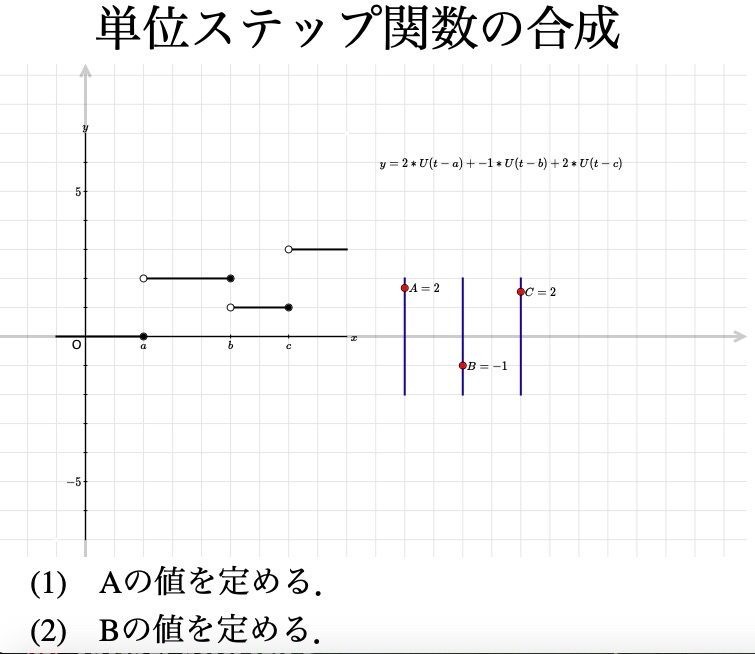
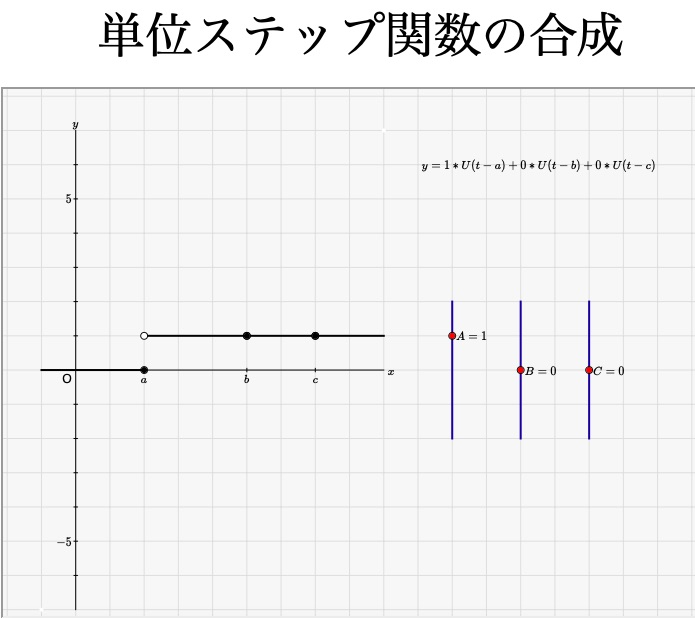
2020/05/06 1st revised

diff --git a/Cmath/Fourier/offL/unit-stepjsoffL.html b/Cmath/Fourier/offL/unit-stepjsoffL.html
@@ -226,6 +226,13 @@ Toupper(str):=(
   );
   out;
 );
+Ketcindyjsmain(prelist):=Ketcindyjsmain(prelist,[]);
+Ketcindyjsmain(prelist,postlist):=(
+  JSMAIN=[[],[]];
+  if(islist(prelist),JSMAIN_1=prelist,JSMAIN_1=[prelist]);
+  if(islist(postlist),JSMAIN_2=postlist,JSMAIN_2=[postlist]);
+  JSMAIN;
+);
 Addax(param):=(
   ADDAXES=text(param);
 );
@@ -1390,10 +1397,10 @@ Ketcindyjsscale=1;
 <script id="csdraw" type="text/x-cindyscript">
 Ketinit();
 Setketcindyjs(["Nol=all","Color=offwhite"]);
-Ketcindyjsbody(["<p,f10>_;_;単位ステップ関数の合成"],[
- "<p,f6>_;(1)_;Aの値を定める．",
- "<p,f6>_;(2)_;Bの値を定める．",
- "<p,f6>_;(3)_;Cの値を定める．"
+Ketcindyjsmain(["<pf10/fp>_;_;単位ステップ関数の合成"],[
+ "<pf5/fpbr>_;(1)_;$A$の値を定める．",
+ "<pf5/fpbr>_;(2)_;$B$の値を定める．",
+ "<pf5/fpbr>_;(3)_;$C$の値を定める．"
 ]);
 Addax(0);
 Drwxy();
@@ -1444,29 +1451,25 @@ var cdy = CindyJS({
   geometry: [
     {name: "SW", type: "Free", pos: [-0.5714285714285714, -4.0, 0.5714285714285714], color: [1.0,1.0,1.0], labeled: false, size: 2.0, border:false },
     {name: "NE", type: "Free", pos: [4.0, 3.111111111111111, 0.4444444444444444], color: [1.0,1.0,1.0], labeled: false, size: 2.0, border:false },
-    {name: "A", type: "Free", pos: [4.0, 0.6081490909090909, 0.36363636363636365], color: [1.0, 0.0, 0.0], labeled: false, size: 3.0, border: true },
+    {name: "A", type: "Free", pos: [4.0, 0.36363636363636365, 0.36363636363636365], color: [1.0, 0.0, 0.0], labeled: false, size: 3.0, border: true },
     {name: "B", type: "Free", pos: [4.0, -0.0, 0.3076923076923077], color: [1.0, 0.0, 0.0], labeled: false, size: 3.0, border: true },
-    {name: "C", type: "Free", pos: [4.0, 0.4110026666666667, 0.26666666666666666], color: [1.0, 0.0, 0.0], labeled: false, size: 3.0, border: true }
+    {name: "C", type: "Free", pos: [4.0, -0.0, 0.26666666666666666], color: [1.0, 0.0, 0.0], labeled: false, size: 3.0, border: true }
   ],
   ports: [{
     id: "CSCanvas",
-    width: 749,
-    height: 493,
-    transform: [{visibleRect: [-3.0149862141040757, 9.389528495352693, 22.793295778626813, -7.597765259542271]}],
-    axes: true,
+    width: 762,
+    height: 527,
+    transform: [{visibleRect: [-2.1241499641397956, 8.211016063688144, 20.137856678491357, -7.185411102541013]}],
     grid: 1.0,
     snap: true,
-    background: "rgb(___)"
+    background: "rgb(247,247,247)"
   }],
   csconsole: false,
+  use: ["katex"],
   cinderella: {build: 1942, version: [3, 0, 1942]}
 });
     </script>
 </head>
 <body>
-    <p><font size="10">&emsp;&emsp;単位ステップ関数の合成</font></p>
     <div id="CSCanvas"></div>
-    <p><font size="6">&emsp;(1)&emsp;Aの値を定める．</font></p>
-    <p><font size="6">&emsp;(2)&emsp;Bの値を定める．</font></p>
-    <p><font size="6">&emsp;(3)&emsp;Cの値を定める．</font></p>
 </html>

diff --git a/Cmath/Fourier/unit-step/unit-stepjson.html b/Cmath/Fourier/unit-step/unit-stepjson.html
@@ -226,6 +226,13 @@ Toupper(str):=(
   );
   out;
 );
+Ketcindyjsmain(prelist):=Ketcindyjsmain(prelist,[]);
+Ketcindyjsmain(prelist,postlist):=(
+  JSMAIN=[[],[]];
+  if(islist(prelist),JSMAIN_1=prelist,JSMAIN_1=[prelist]);
+  if(islist(postlist),JSMAIN_2=postlist,JSMAIN_2=[postlist]);
+  JSMAIN;
+);
 Addax(param):=(
   ADDAXES=text(param);
 );
@@ -1390,10 +1397,10 @@ Ketcindyjsscale=1;
 <script id="csdraw" type="text/x-cindyscript">
 Ketinit();
 Setketcindyjs(["Nol=all","Color=offwhite"]);
-Ketcindyjsbody(["<p,f10>_;_;単位ステップ関数の合成"],[
- "<p,f6>_;(1)_;Aの値を定める．",
- "<p,f6>_;(2)_;Bの値を定める．",
- "<p,f6>_;(3)_;Cの値を定める．"
+Ketcindyjsmain(["<pf10/fp>_;_;単位ステップ関数の合成"],[
+ "<pf5/fpbr>_;(1)_;$A$の値を定める．",
+ "<pf5/fpbr>_;(2)_;$B$の値を定める．",
+ "<pf5/fpbr>_;(3)_;$C$の値を定める．"
 ]);
 Addax(0);
 Drwxy();
@@ -1444,29 +1451,25 @@ var cdy = CindyJS({
   geometry: [
     {name: "SW", type: "Free", pos: [-0.5714285714285714, -4.0, 0.5714285714285714], color: [1.0,1.0,1.0], labeled: false, size: 2.0, border:false },
     {name: "NE", type: "Free", pos: [4.0, 3.111111111111111, 0.4444444444444444], color: [1.0,1.0,1.0], labeled: false, size: 2.0, border:false },
-    {name: "A", type: "Free", pos: [4.0, 0.6081490909090909, 0.36363636363636365], color: [1.0, 0.0, 0.0], labeled: false, size: 3.0, border: true },
+    {name: "A", type: "Free", pos: [4.0, 0.36363636363636365, 0.36363636363636365], color: [1.0, 0.0, 0.0], labeled: false, size: 3.0, border: true },
     {name: "B", type: "Free", pos: [4.0, -0.0, 0.3076923076923077], color: [1.0, 0.0, 0.0], labeled: false, size: 3.0, border: true },
-    {name: "C", type: "Free", pos: [4.0, 0.4110026666666667, 0.26666666666666666], color: [1.0, 0.0, 0.0], labeled: false, size: 3.0, border: true }
+    {name: "C", type: "Free", pos: [4.0, -0.0, 0.26666666666666666], color: [1.0, 0.0, 0.0], labeled: false, size: 3.0, border: true }
   ],
   ports: [{
     id: "CSCanvas",
-    width: 749,
-    height: 493,
-    transform: [{visibleRect: [-3.0149862141040757, 9.389528495352693, 22.793295778626813, -7.597765259542271]}],
-    axes: true,
+    width: 762,
+    height: 527,
+    transform: [{visibleRect: [-2.1241499641397956, 8.211016063688144, 20.137856678491357, -7.185411102541013]}],
     grid: 1.0,
     snap: true,
-    background: "rgb(___)"
+    background: "rgb(247,247,247)"
   }],
   csconsole: false,
+  use: ["katex"],
   cinderella: {build: 1942, version: [3, 0, 1942]}
 });
     </script>
 </head>
 <body>
-    <p><font size="10">&emsp;&emsp;単位ステップ関数の合成</font></p>
     <div id="CSCanvas"></div>
-    <p><font size="6">&emsp;(1)&emsp;Aの値を定める．</font></p>
-    <p><font size="6">&emsp;(2)&emsp;Bの値を定める．</font></p>
-    <p><font size="6">&emsp;(3)&emsp;Cの値を定める．</font></p>
 </html>

diff --git a/Cmath/Fourier/index.html b/Cmath/Fourier/index.html
@@ -5,13 +5,13 @@
 </head>
 <body>
 <p><font size="10">&emsp;ラプラス変換・フーリエ変換</font>
-<font size="5">&emsp;&emsp;2020年4月30日</font></p>
+<font size="5">&emsp;&emsp;2020年5月6日</font></p>
 
 <!-- 単位ステップ関数 -->
 <table border="1" height="30">
     <tr><th colspan="2" align="left"><font size="5">&emsp;タニステップ関数</font></th></tr>
     <tr><td rowspan="20"><a href="unit-step/unit-stepfig.jpg"><img src="unit-step/unit-stepfig.jpg" alt=JPG width="240"></a></td></tr>
-    <tr><td align="center" width="80"><a href="offL/unit-stepjsoffL.html">html</a></td></tr>
+    <tr><td align="center" width="80"><a href="offL/unit-stepmainoffL.html">html</a></td></tr>
     <tr><td align="center" width="80"><a href="unit-step/unit-stepjson.html"  download>html(DL)</a></td></tr>
     <tr><td align="center" width="80"><a href="unit-step/unit-step.txt">txt</a></td></tr>
     <tr><td align="center" width="80"><a href="unit-step/unit-step.cdy">cdy</a></td></tr>

diff --git a/Cmath/Fourier/offL/unit-stepmainoffL.html b/Cmath/Fourier/offL/unit-stepmainoffL.html
@@ -1,0 +1,22 @@
+<!DOCTYPE html>
+<html>
+<head>
+<meta charset="utf-8">
+<title>Page of unit-step</title>
+<script src="ketcindyjs/jquery.min.js"></script>
+<link rel="stylesheet" href="ketcindyjs/katex/katex.min.css" />
+<script src="ketcindyjs/katex/katex.min.js"></script>
+<script src="ketcindyjs/auto-render.min.js"></script>
+<script>$(document).ready(function(){renderMathInElement(document.body,{delimiters: [{left: "[[", right: "]]", display: true},{left: "$", right: "$", display: false}]})});</script>
+</head>
+<body
+<p></p>
+<p><font size="10">&emsp;&emsp;単位ステップ関数の合成</font></p>
+<p></p>
+<iframe src="unit-stepjsoffL.html" width="762" height="527"></iframe>
+<p></p>
+<p><font size="5">&emsp;(1)&emsp;$A$の値を定める．</font></p></br>
+<p><font size="5">&emsp;(2)&emsp;$B$の値を定める．</font></p></br>
+<p><font size="5">&emsp;(3)&emsp;$C$の値を定める．</font></p></br>
+</body>
+</html>

diff --git a/Cmath/Fourier/unit-step/unit-stepmainon.html b/Cmath/Fourier/unit-step/unit-stepmainon.html
@@ -1,0 +1,22 @@
+<!DOCTYPE html>
+<html>
+<head>
+<meta charset="utf-8">
+<title>Page of unit-step</title>
+<script src="ketcindyjs/jquery.min.js"></script>
+<link rel="stylesheet" href="ketcindyjs/katex/katex.min.css" />
+<script src="ketcindyjs/katex/katex.min.js"></script>
+<script src="ketcindyjs/auto-render.min.js"></script>
+<script>$(document).ready(function(){renderMathInElement(document.body,{delimiters: [{left: "[[", right: "]]", display: true},{left: "$", right: "$", display: false}]})});</script>
+</head>
+<body
+<p></p>
+<p><font size="10">&emsp;&emsp;単位ステップ関数の合成</font></p>
+<p></p>
+<iframe src="unit-stepjson.html" width="762" height="527"></iframe>
+<p></p>
+<p><font size="5">&emsp;(1)&emsp;$A$の値を定める．</font></p></br>
+<p><font size="5">&emsp;(2)&emsp;$B$の値を定める．</font></p></br>
+<p><font size="5">&emsp;(3)&emsp;$C$の値を定める．</font></p></br>
+</body>
+</html>
